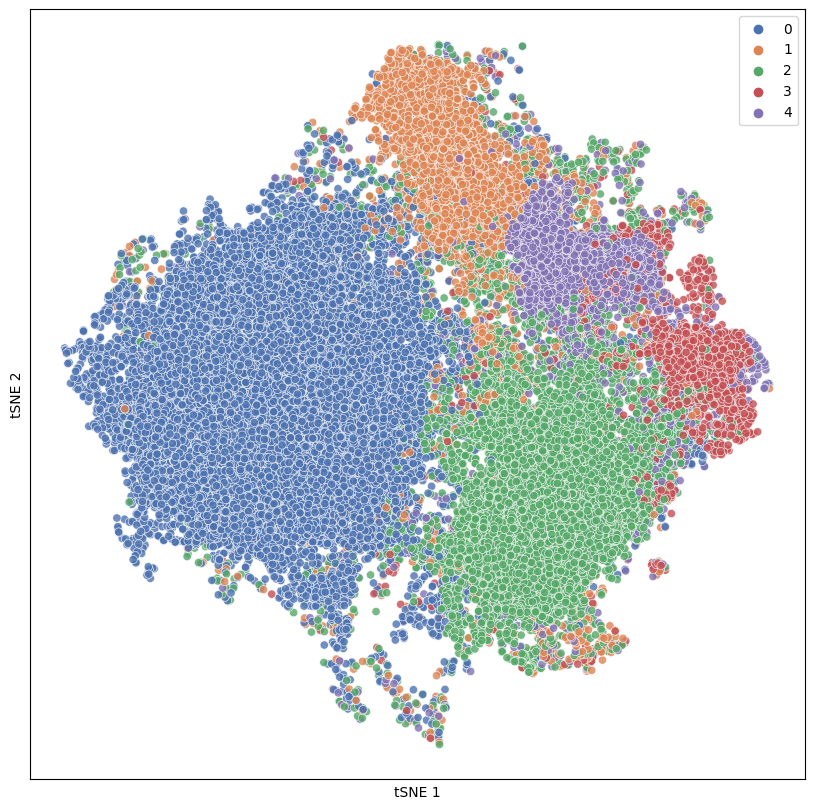
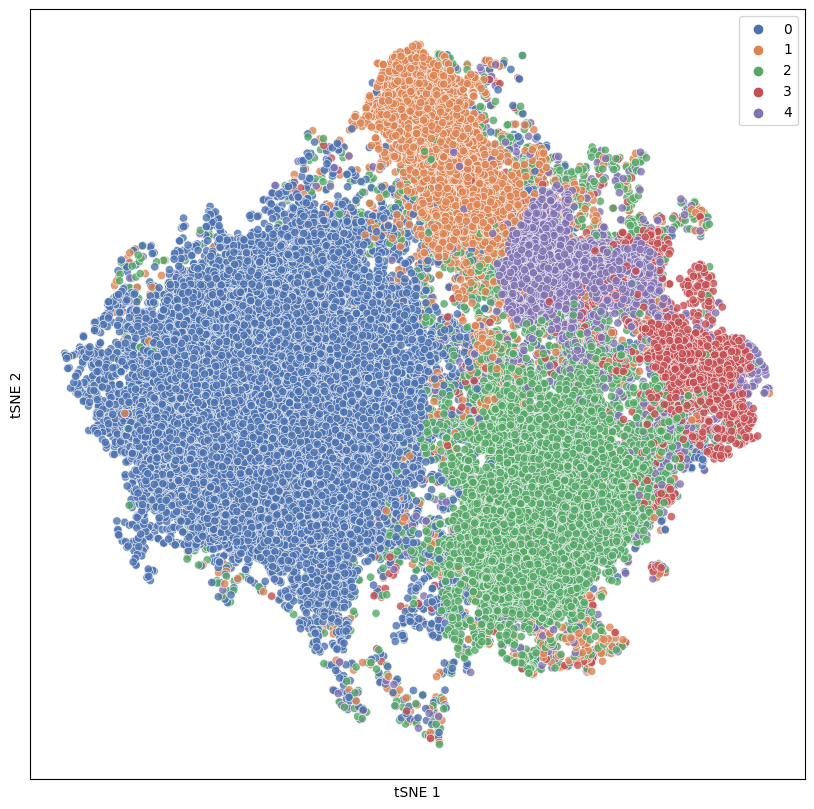
changes

diff --git a/main.py b/main.py
@@ -115,7 +115,7 @@ def main():
     wandb.login()
     #, "(64, 128, 256, 512)"
     args.store_name = '_'.join(
-        [args.dataset, args.arch,'batchsize', str(args.batch_size), 'epochs', str(args.epochs), 'temp', str(args.temp),
+        [args.dataset, "old_augmentations",args.arch,'batchsize', str(args.batch_size), 'epochs', str(args.epochs), 'temp', str(args.temp),
          'lr', str(args.lr), args.cl_views, 'alpha', str(args.alpha), 'beta', str(args.beta), 'schedule', str(args.schedule), 'recalibrate', str(args.recalibrate),user_name, "ce_loss", str(args.ce_loss), get_random_string(6)])
     print('storing name: {}'.format(args.store_name))
 
@@ -219,25 +219,60 @@ def main_worker(gpu, ngpus_per_node, args):
     rgb_mean = (0.485, 0.456, 0.406)
 
     ra_params = dict(translate_const=int(224 * 0.45), img_mean=tuple([min(255, round(255 * x)) for x in rgb_mean]), )
-    if(args.dataset == 'aptos'):
-        print("using aptos augmentations..")
-        # for aptos, we dont want to use random augmentations because baaad
-        # replaced with random equalize
-        augmentation_randncls = [
-        # transforms.RandomResizedCrop(224, scale=(0.08, 1.)),
-        transforms.Resize((224,224)),
-        transforms.RandomHorizontalFlip(),
-        transforms.RandomApply([
-            transforms.ColorJitter(0.4, 0.4, 0.4, 0.0)
-        ], p=1.0),
-        transforms.RandomEqualize(),
-        # rand_augment_transform('rand-n{}-m{}-mstd0.5'.format(args.randaug_n, args.randaug_m), ra_params),
-        transforms.ToTensor(),
-        normalize,
-        ]
+    # if(args.dataset == 'aptos'):
+    #     print("using aptos augmentations..")
+    #     # for aptos, we dont want to use random augmentations because baaad
+    #     # replaced with random equalize
+    #     augmentation_randncls = [
+    #     # transforms.RandomResizedCrop(224, scale=(0.08, 1.)),
+    #     transforms.Resize((224,224)),
+    #     transforms.RandomHorizontalFlip(),
+    #     transforms.RandomApply([
+    #         transforms.ColorJitter(0.4, 0.4, 0.4, 0.0)
+    #     ], p=1.0),
+    #     transforms.RandomEqualize(),
+    #     # rand_augment_transform('rand-n{}-m{}-mstd0.5'.format(args.randaug_n, args.randaug_m), ra_params),
+    #     transforms.ToTensor(),
+    #     normalize,
+    #     ]
 
-        augmentation_randnclsstack = [
-        transforms.Resize((224,224)),
+    #     augmentation_randnclsstack = [
+    #     transforms.Resize((224,224)),
+    #     transforms.RandomHorizontalFlip(),
+    #     transforms.RandomApply([
+    #         transforms.ColorJitter(0.4, 0.4, 0.4, 0.1)
+    #     ], p=0.8),
+    #     # transforms.RandomGrayscale(p=0.2),
+    #     rand_augment_transform('rand-n{}-m{}-mstd0.5'.format(args.randaug_n, args.randaug_m), ra_params),
+    #     transforms.ToTensor(),
+    #     normalize,
+    #     ]
+
+    #     augmentation_sim = [
+    #     transforms.Resize((224,224)),
+    #     transforms.RandomHorizontalFlip(),
+    #     transforms.RandomApply([
+    #         transforms.ColorJitter(0.4, 0.4, 0.4, 0.1)  # not strengthened
+    #     ], p=0.8),
+    #     # transforms.RandomGrayscale(p=0.2),
+    #     transforms.ToTensor(),
+    #     normalize
+    #     ]
+
+    # else:
+    augmentation_randncls = [
+    transforms.RandomResizedCrop(224, scale=(0.08, 1.)),
+    transforms.RandomHorizontalFlip(),
+    transforms.RandomApply([
+        transforms.ColorJitter(0.4, 0.4, 0.4, 0.0)
+    ], p=1.0),
+    rand_augment_transform('rand-n{}-m{}-mstd0.5'.format(args.randaug_n, args.randaug_m), ra_params),
+    transforms.ToTensor(),
+    normalize,
+    ]
+
+    augmentation_randnclsstack = [
+        transforms.RandomResizedCrop(224),
         transforms.RandomHorizontalFlip(),
         transforms.RandomApply([
             transforms.ColorJitter(0.4, 0.4, 0.4, 0.1)
@@ -246,10 +281,9 @@ def main_worker(gpu, ngpus_per_node, args):
         rand_augment_transform('rand-n{}-m{}-mstd0.5'.format(args.randaug_n, args.randaug_m), ra_params),
         transforms.ToTensor(),
         normalize,
-        ]
-
-        augmentation_sim = [
-        transforms.Resize((224,224)),
+    ]
+    augmentation_sim = [
+        transforms.RandomResizedCrop(224),
         transforms.RandomHorizontalFlip(),
         transforms.RandomApply([
             transforms.ColorJitter(0.4, 0.4, 0.4, 0.1)  # not strengthened
@@ -257,42 +291,8 @@ def main_worker(gpu, ngpus_per_node, args):
         # transforms.RandomGrayscale(p=0.2),
         transforms.ToTensor(),
         normalize
-        ]
-
-    else:
-        augmentation_randncls = [
-        transforms.RandomResizedCrop(224, scale=(0.08, 1.)),
-        transforms.RandomHorizontalFlip(),
-        transforms.RandomApply([
-            transforms.ColorJitter(0.4, 0.4, 0.4, 0.0)
-        ], p=1.0),
-        rand_augment_transform('rand-n{}-m{}-mstd0.5'.format(args.randaug_n, args.randaug_m), ra_params),
-        transforms.ToTensor(),
-        normalize,
-        ]
-
-        augmentation_randnclsstack = [
-            transforms.RandomResizedCrop(224),
-            transforms.RandomHorizontalFlip(),
-            transforms.RandomApply([
-                transforms.ColorJitter(0.4, 0.4, 0.4, 0.1)
-            ], p=0.8),
-            # transforms.RandomGrayscale(p=0.2),
-            rand_augment_transform('rand-n{}-m{}-mstd0.5'.format(args.randaug_n, args.randaug_m), ra_params),
-            transforms.ToTensor(),
-            normalize,
-        ]
-        augmentation_sim = [
-            transforms.RandomResizedCrop(224),
-            transforms.RandomHorizontalFlip(),
-            transforms.RandomApply([
-                transforms.ColorJitter(0.4, 0.4, 0.4, 0.1)  # not strengthened
-            ], p=0.8),
-            # transforms.RandomGrayscale(p=0.2),
-            transforms.ToTensor(),
-            normalize
-        ]
-        
+    ]
+    
     if args.cl_views == 'sim-sim':
         transform_train = [transforms.Compose(augmentation_randncls), transforms.Compose(augmentation_sim),
                            transforms.Compose(augmentation_sim), ]
@@ -843,7 +843,7 @@ def tsne_plot(save_dir, targets, outputs, store_name):
 
     if(not os.path.exists(os.path.join(save_dir, store_name))):
         os.mkdir(os.path.join(save_dir, store_name))
-        
+
     plt.savefig(os.path.join(save_dir, store_name, "tsne.png"), bbox_inches="tight")
     print("done!")
 

diff --git a/models/resnext.py b/models/resnext.py
@@ -320,8 +320,8 @@ def vit_small(num_classes = None, out_dim = 2048):
         num_classes = num_classes,
         dim = 2048,
         depth = 6,
-        heads = 16,
-        mlp_dim = 2048,
+        heads = 8,
+        mlp_dim = 128,
         dropout = 0.1,
         emb_dropout = 0.1
     )        
